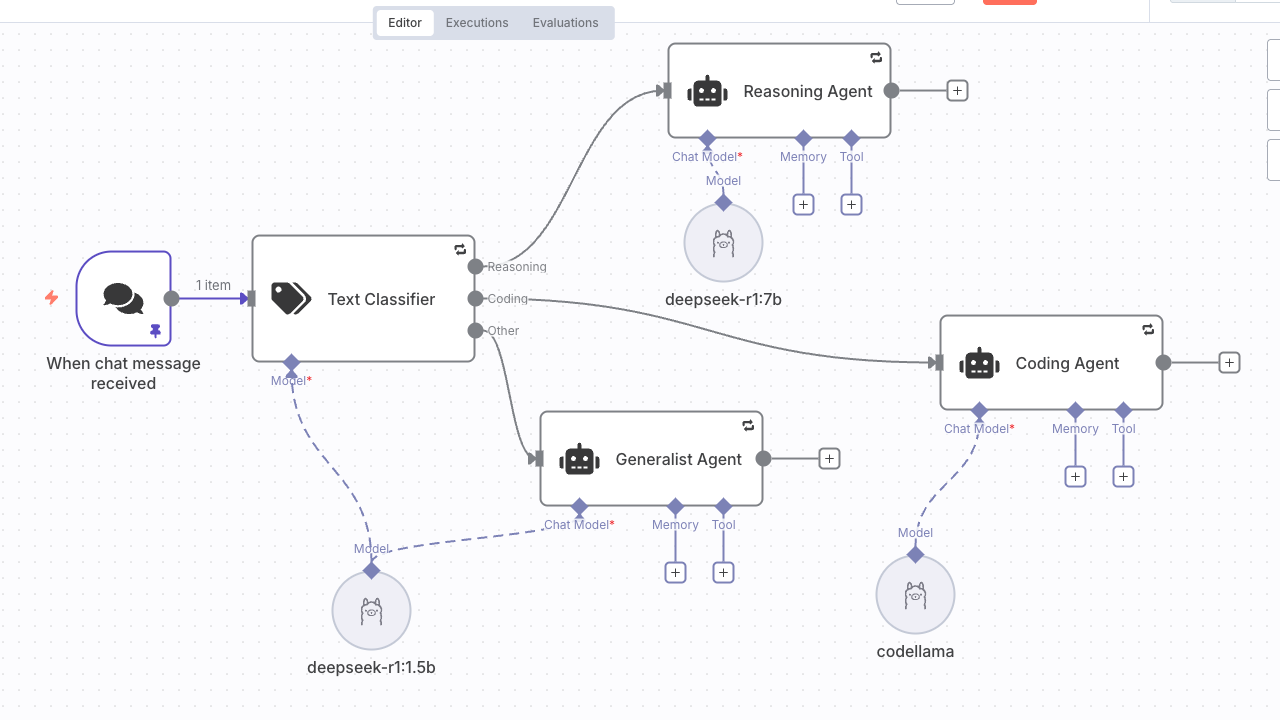
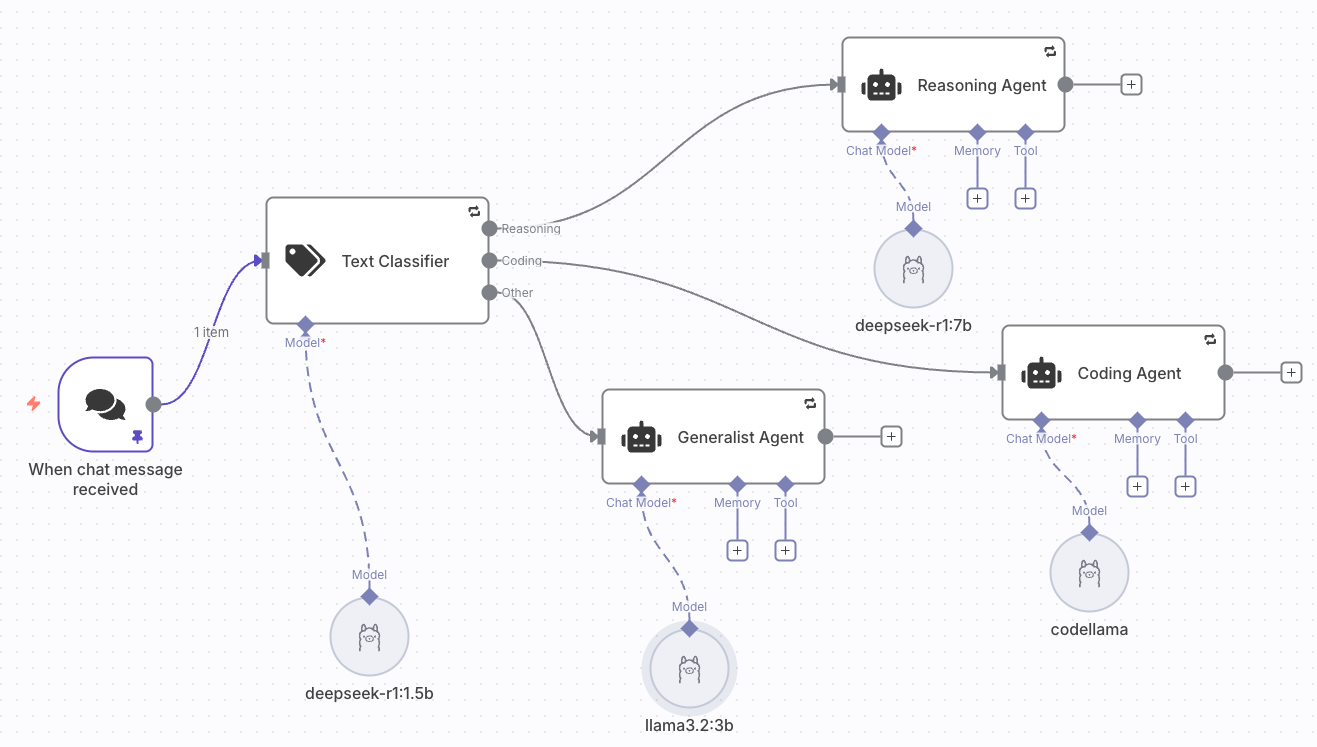
Merge pull request #15 from f5devcentral/toronto.run_through_one
minor updates to pics, nav, and text

Pull request: minor updates to pics, nav, and text

diff --git a/docs/class1/module3/lab3.rst b/docs/class1/module3/lab3.rst
@@ -49,16 +49,37 @@ understanding which model they should use for which tasks.
             Category: Coding
             Deescription: If the chat message indicates a need to code or asks for help with computer languages and scripting languages like iRules, JSON or node.js, assign this category.
 
-    #. Click the **Add Option** button, select the **Allow Multiple Classes To Be True** option, and then click the toggle to enable it.
     #. Click the **Add Option** button, select the **When No Clear Match** option, then select the **Output on Extra, 'Other' Branch** in the drop down list.
     #. Click the **Add Option** button, select the **System Prompt Template** option, then paste the system prompt below:
 
         .. code-block:: console
 
-            Please classify the text provided by the user into one of the following categories: {categories}, and use
-            the provided formatting instructions below: If they explicitly ask for coding help, do not fail and
-            classify the message as 'Coding'. If they explicitly ask for reasoning help, do not fail and classify
-            the message as 'Reasoning'. Otherwise, send the {{ $json.chatInput }} on to the next agent.
+            Please classify the text provided by the user into one of the following categories, and use the
+            provided formatting instructions below. Don't explain, and only output the json.
+
+            Categories:
+
+            REASONING: Tasks requiring logical analysis, problem-solving, decision-making, or explanations that
+            do not involve writing or modifying code. This includes answering questions, providing advice, analyzing
+            situations, explaining concepts, solving math problems, making comparisons, planning strategies, and
+            general knowledge queries.
+
+            Examples: "What's the best way to approach learning a new language?", "Explain the differences between
+            socialism and capitalism", "I have $5000 to invest. Should I put it in stocks or bonds?", "How can I
+            improve my time management skills?"
+
+            CODING: Tasks that involve writing, debugging, modifying, reviewing, or generating source code in any
+            programming language. This includes creating functions, scripts, or applications, fixing bugs,
+            refactoring code, implementing APIs, database queries, configuration files, regex patterns, and any
+            request where the expected output is executable or structured code.
+
+            Examples: "Write a Python function that calculates the Fibonacci sequence", "Debug this JavaScript code",
+            "Create a SQL query to find all users who registered last month", "Generate a regex pattern to validate
+            email addresses"
+
+            Classification rule: If the user asks to "explain how code/algorithm works" without requesting code
+            output, classify as REASONING. If they ask to "write", "create", "implement", or "generate" code,
+            classify as CODING.
 
 #. Next we'll tackle the classifier's settings. Click the **settings** tab, toggle **Retry on Fail** to enabled, then click **Back to canvas**
 
@@ -92,11 +113,23 @@ understanding which model they should use for which tasks.
 
     .. image:: images/n8n_coding_model.png
 
-#. Now you'll again repeat the previous steps to add the Generalist Agent. Everything should be the same except the model, which you can just drag a line over to the existing deepseek-r1:1.5b. After you add the new Generalist Agent node, your canvas should look like this:
+#. Now you'll again repeat the previous steps to add the Generalist Agent. Everything should be the same except the node names and the model, which should be **llama3.2:3b** in this case. After you add the two nodes, your canvas should look like this:
 
     .. image:: images/n8n_generalist_model.png
 
-#. Test time!! Need to populate a few tests that will work to show off the workflow...TBD!!
+Test time!!
+-----------
+
+Given the prompts below, I was able to successfully transit each of the three classification path,
+but please feel free to test your own and see how explicit you need to be to find success.
+
+* What is the capital of France?
+* If all Bloops are Razzies and all Razzies are Lazzies, are all Bloops definitely Lazzies?
+* Can you write a python function for me that will add two numbers and return the sum?
+
+You can see the workflow actions from the first geography-related prompt below.
+
+    .. image:: images/n8n_generalist_result.png
 
 Challenges
 ----------

diff --git a/docs/class1/module1/lab2.rst b/docs/class1/module1/lab2.rst
@@ -105,7 +105,7 @@ The output should resemble this:
 
     root@ip-10-1-1-5:/root/ollama# docker exec ollama ollama ps
     NAME                ID              SIZE      PROCESSOR    CONTEXT    UNTIL
-    tinyllama:latest    2644915ede35    827 MB    100% CPU     4096       About a minute from now
+    tinyllama:latest    2644915ede35    827 MB    100% CPU     4096       Forever
 
 4. Let's run a quick test against the model! We'll do this three different ways, a one-shot prompt,
 an interactive shell, and with curl via the API.
@@ -176,7 +176,7 @@ We'll use curl in this lab to run a prompt against the Ollama API.
             "model": "tinyllama",
             "prompt": "Why is grass green?",
             "stream": false
-          }'
+          }' | jq .
 
 The output should resemble this (cleaned up for readability):
 
@@ -220,19 +220,19 @@ Field                      Description
 
 .. code-block:: console
 
-    docker exec ollama ollama pull codellama
-    docker exec ollama ollama pull deepseek-r1:1.5b
-    docker exec ollama ollama pull deepseek-r1:7b
-    docker exec ollama ollama pull llama3.2:3b
+    docker exec ollama ollama run codellama
+    docker exec ollama ollama run deepseek-r1:1.5b
+    docker exec ollama ollama run deepseek-r1:7b
+    docker exec ollama ollama run llama3.2:3b
 
 The output should resemble this:
 
 .. code-block:: console
 
-    root@ip-10-1-1-5:/root/ollama# docker exec ollama ollama pull codellama
-     docker exec ollama ollama pull deepseek-r1:1.5b
-     docker exec ollama ollama pull deepseek-r1:7b
-     docker exec ollama ollama pull llama3.2:3b
+    root@ip-10-1-1-5:/root/ollama# docker exec ollama ollama run codellama
+     docker exec ollama ollama run deepseek-r1:1.5b
+     docker exec ollama ollama run deepseek-r1:7b
+     docker exec ollama ollama run llama3.2:3b
     pulling manifest
     pulling 3a43f93b78ec: 100% ▕██████████████████▏ 3.8 GB
     pulling 8c17c2ebb0ea: 100% ▕██████████████████▏ 7.0 KB

diff --git a/docs/class1/module1/lab1.rst b/docs/class1/module1/lab1.rst
@@ -25,7 +25,7 @@ small models on any system with modest specifications.
 **Perform these steps from the LLM Server (Web Shell recommended for ease of use)**
 
 In your deployment, click on the **Components** tab, and under **Systems**, click **Access** on the
-LLM Server and select **WEB SHELL** as shown in the image below. This will launch the shell which
+**LLM Server** and select **WEB SHELL** as shown in the image below. This will launch the shell which
 you will use for the remainder of the labs in this module.
 
 .. image:: images/00_llmserver_webshell_interface.png
@@ -33,9 +33,9 @@ you will use for the remainder of the labs in this module.
 Install Ollama
 --------------
 
-The benefit of using Docker is the install aspect is a bit of a misnomer. Docker is the engine that
-is going to simply run the pre-configured install of Ollama in a container. That said, our Ollama
-server has an NVIDIA T4 GPU so we need to configure docker to use it before proceeding.
+Using Docker simplifies the installation process—or rather, eliminates it entirely. Docker runs a
+pre-configured Ollama container, so there's no traditional installation required. However, since our
+Ollama server has an NVIDIA T4 GPU, we need to configure Docker to access it before proceeding.
 
 1. Configure Docker for GPU use
 
@@ -94,7 +94,9 @@ The output should resemble this:
       llmserver-labnet:
         external: true
 
-Note the key details on what image, container name, ports, persistent data volumen, and networks are associated.
+Note the key details on what image, container name, ports, persistent data volume, and networks are associated.
+The environment variables in this case are there to keep the models loaded in memory and allow concurrent
+requests. This should improve the wait times in some of the later labs.
 
 4. Run the Ollama compose service.
 
@@ -146,7 +148,7 @@ The output should resemble this:
 
 .. code-block:: console
 
-    root@ip-10-1-1-5:/root# curl http://lcoalhost:11434
+    root@ip-10-1-1-5:/root# curl http://localhost:11434
     Ollama is running
 
 Recap
@@ -157,4 +159,4 @@ You now have the following:
 - A Docker container running the Ollama server
 - A Docker volume which is used as the file repository to store the models we'll install so they survive container restarts
 
-Next we'll install a couple models.
+Next we'll install some models.

diff --git a/docs/class1/module1/lab3.rst b/docs/class1/module1/lab3.rst
@@ -136,11 +136,25 @@ The output should resemble:
       -v /tmp/custom-models:/tmp/custom-models \
       alpine sh -c "cp -r /tmp/custom-models/* /root/.ollama/models/"
 
+The output should resemble the following:
+
+.. code-block:: console
+
+    root@ip-10-1-1-5:/root/ollama# docker run --rm \
+      -v ollama_model_data:/root/.ollama \
+      -v /tmp/custom-models:/tmp/custom-models \
+      alpine sh -c "cp -r /tmp/custom-models/* /root/.ollama/models/"
+    Unable to find image 'alpine:latest' locally
+    latest: Pulling from library/alpine
+    2d35ebdb57d9: Pull complete
+    Digest: sha256:4b7ce07002c69e8f3d704a9c5d6fd3053be500b7f1c69fc0d80990c2ad8dd412
+    Status: Downloaded newer image for alpine:latest
+
 4. Verify the modelfiles are now in your model_data docker volume
 
 .. code-block:: console
 
-    ls -als /var/lib/docker/volumes/model_data/_data/models
+    ls -als /var/lib/docker/volumes/ollama_model_data/_data/models
 
 The output should resemble:
 

diff --git a/docs/class1/module2/lab2.rst b/docs/class1/module2/lab2.rst
@@ -399,20 +399,16 @@ The output should resemble this:
     root@ip-10-1-1-4:/root/open-webui# docker ps | grep open-webui$
     2fb45a840c35   ghcr.io/open-webui/open-webui:main   "bash start.sh"          4 hours ago    Up 19 minutes (healthy)   0.0.0.0:3000->8080/tcp                        open-webui
 
-.. note::
-
-    If you want to pre-load the llama3.2:3b model into memory on the LLM server while you wait for open WebUI to get
-    healthy, you can save a little wait time in prompting step below. Login to the webshell of the LLM server and type
-    **docker exec ollama ollama run llama3.2:3b** and just leave that tab open.
-
-4. Launch your Open WebUI tab again and login. Select the llama3.2:3b model, then click the diamond pattern
-in your chat block to reveal your tools and select the f5mcp tool.
+4. Launch your Open WebUI tab again and login. Select the **llama3.2:3b** model, then click the diamond pattern
+in your chat block to reveal your tools and select the **F5 MCP Server** tool.
 
 .. image:: images/f5mcp_tools_display.png
 
 .. note::
 
-    For each model you select to work with, you'll need to reattach your tools.
+    For each model you select to work with, you'll need to reattach your tools. Also, if you don't see your tools
+    yet, in the **web shell** in the **/root/open-webui** directory, do a **docker compose down** and then a
+    **docker compse up**, wait for it to be healthy by running **docker ps**, and then check the model tools again.
 
 5. Now prompt for the list of BIG-IP pools. I find on these smaller models I need to be more explicit and
 nudged as much as possible. Here's your chance to experiment on how you can get the model to a) actually use

diff --git a/docs/class1/module2/lab1.rst b/docs/class1/module2/lab1.rst
@@ -153,11 +153,12 @@ should resemble this one:
 Now take a step back and see what you've just built. You have your own working generative AI environment!
 And your prompt session history in the left-hand menu, no less. Not too shabby, right?!?
 
-You might have noticed that your initial prompt took a hot minute to get a response. This is due to the
-way Ollama is set up in docker by default. When you ran a model in Module 1 via a ``docker exec``
-command within the container, it loaded that model into memory, but only for a short while. You can see
-when I drop the model list down that there is a green dot next to tinylama, indicating that the model is
-loaded, and hovering over the green dot shows the tool tip that it will unload in 4 minutes.
+Depending on the model you chose, you might have noticed that your initial prompt took a hot minute to get
+a response. This is due to the way Ollama is set up in docker by default. When you ran a model in Module 1
+via a ``docker exec`` command within the container, it loaded that model into memory, but only for a short
+while after the first five models, which are set to stay loaded forever. You can see when I drop the model
+list down that there is a green dot next to the loaded models. Hovering over the model's green dot shows the
+tool tip that it will unload in 292 years. I think you'll make it through the lab!
 
 .. image:: images/06_openwebui_chatbot_models.png
 

diff --git a/docs/class1/class1.rst b/docs/class1/class1.rst
@@ -25,9 +25,11 @@ build out and customize in your own lab and extend for your specific needs.
 Resources
 ---------
 
-- :doc:`Docker Cheatsheet <resources/docker-cheatsheet>`
-- :doc:`Ollama Cheatsheet <resources/ollama-cheatsheet>`
+- `Docker Cheatsheet <resources/docker-cheatsheet>`_
+- `Ollama Cheatsheet <resources/ollama-cheatsheet>`_
 
+Labs
+----
 
 .. toctree::
    :maxdepth: 1

diff --git a/docs/class1/module2/lab3.rst b/docs/class1/module2/lab3.rst
@@ -64,8 +64,6 @@ This should take a few minutes and resemble the output below.
 
 You'll notice you are now at the container shell prompt instead of at the App Server prompt.
 
-CONTINUE HERE AFTER LUNCH!!
-
 Configure Fabric
 ----------------
 
@@ -141,7 +139,7 @@ for the other two. Your output should resemble the following before being presen
 
     Specify HTTP timeout duration for Ollama requests (e.g. 30s, 5m, 1h) (leave empty for '20m' or type 'reset' to remove the value):
 
-3. Select the **Default AI Vendor and Model** Tool by number and hit **Enter**.  For now, choose llama3.2:3b.
+3. Select the **Default AI Vendor and Model** Tool by number and hit **Enter**.  For now, choose **llama3.2:3b**.
 In my instance, that is number 6 but that might be different for you. Skip the model context length. Your output should
 resemble the following before being presented again with the main screen:
 
@@ -375,6 +373,8 @@ Recap
 You now have the following:
 
 - A powerful command-line AI Assistant to optimize your data ingestion and note taking experiences.
+
+In the **web shell** exit the container by typing **exit**
 
 
 This completes Module 2. Click Next to move on to Module 3.

diff --git a/docs/class1/module3/lab2.rst b/docs/class1/module3/lab2.rst
@@ -22,18 +22,18 @@ You should see an output similar to this:
     and type **docker compose up -d** and then check **docker ps** again.
 
 Goals
-======
+-----
 
 By the end of this short lab, you will have created your first AI agent. It doesn't do a whole lot, except to proxy the conversation between n8n's native chat
 interface and your LLM served by Ollama, but it will clearly display the power that an agent provides and it will set you up for easy AI-powered automation.
 
 Steps
-=====
+-----
 
 #. Now, it's time to open your deployment's n8n Interface Access Method on the **App Server** and create an owner
 account for the instance:
 
-   .. image:: images/00_appserver_n8n_Interface.png
+   .. image:: images/00_appserver_n8n_interface.png
 
 .. note::
 

diff --git a/docs/class1/module3/lab1.rst b/docs/class1/module3/lab1.rst
@@ -9,11 +9,11 @@ verify we can access it via web UI. You will want to open the **WEB SHELL**.
 
 Installing n8n
 --------------
-1. Change directory into /root/n8n and start up your compose service.
+1. Change directory into /root/n8n (and review the compose file, right? RIGHT?!?) and start up your compose service.
 
 .. code-block:: console
 
-	cd /root/n8n
+    cd /root/n8n
     docker compose up -d
 
 You should see output similar to the following:

diff --git a/docs/class1/module1/module1.rst b/docs/class1/module1/module1.rst
@@ -1,7 +1,7 @@
 Module 1: Large Language Models
 ===============================
 
-Here we'll start with the basics of large language models (LLMs) by installing and performing some preliminary work with the Ollama model management platform.
+We'll start with the basics of large language models (LLMs) by installing and performing some preliminary work with the Ollama model management platform.
 
 .. toctree::
    :maxdepth: 1